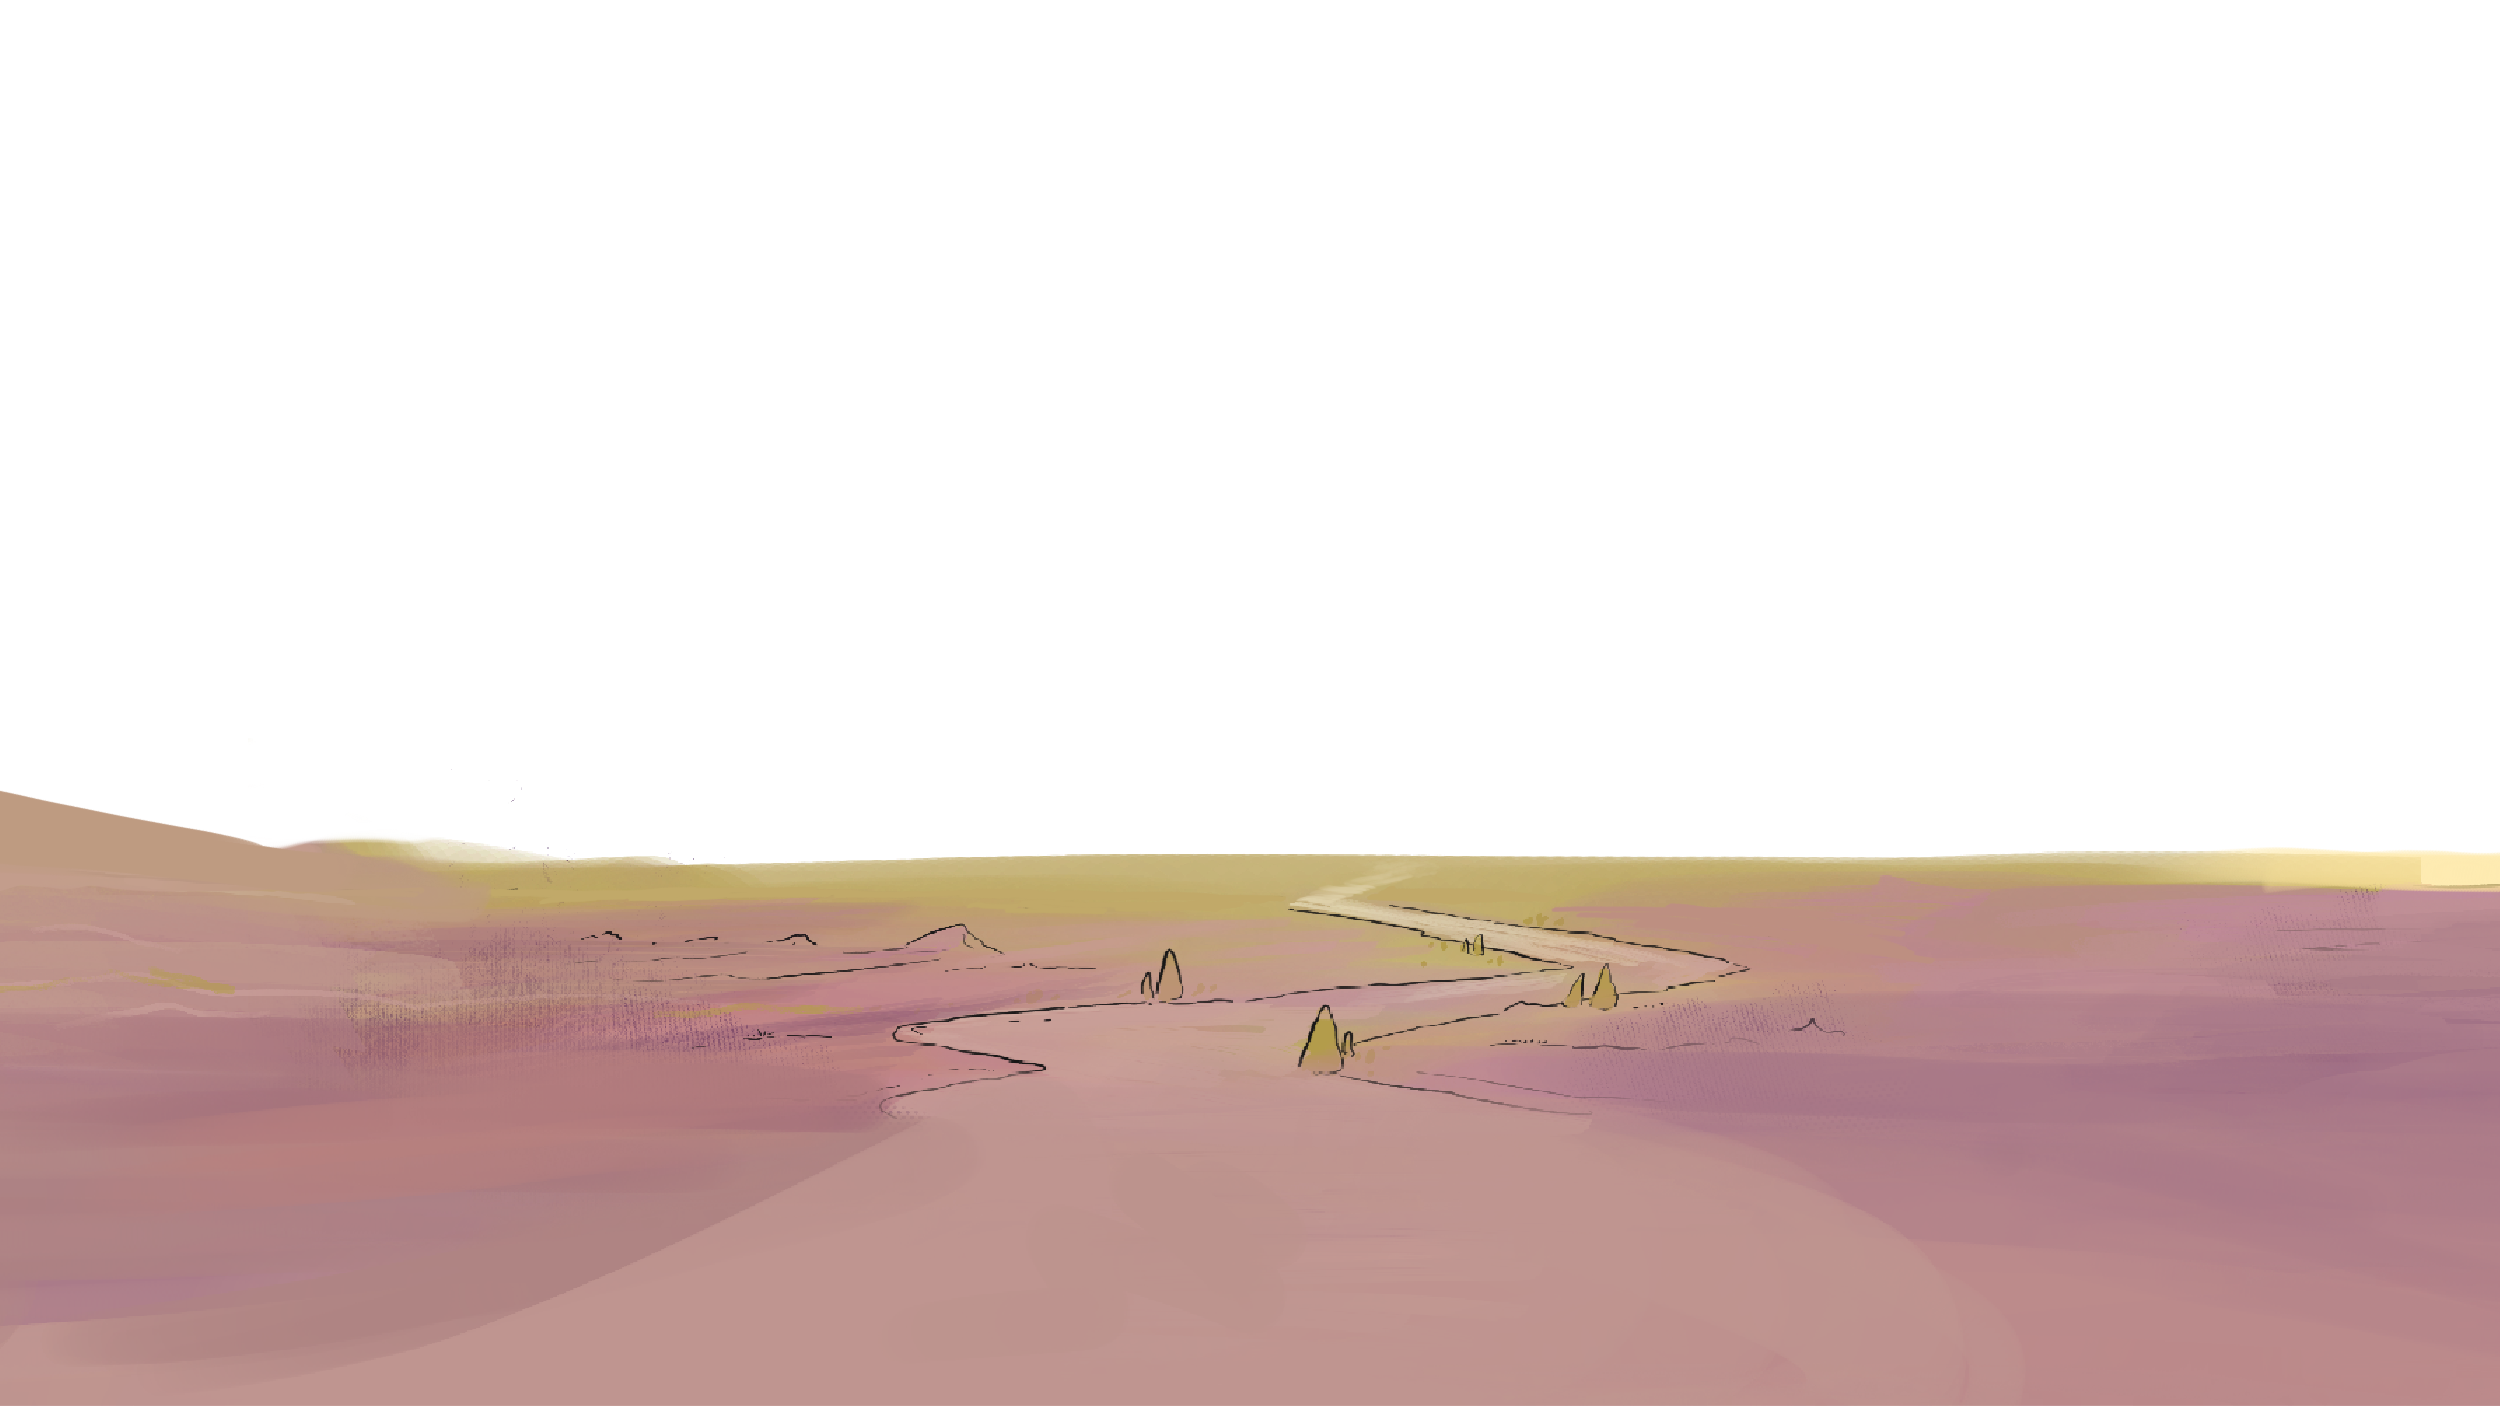
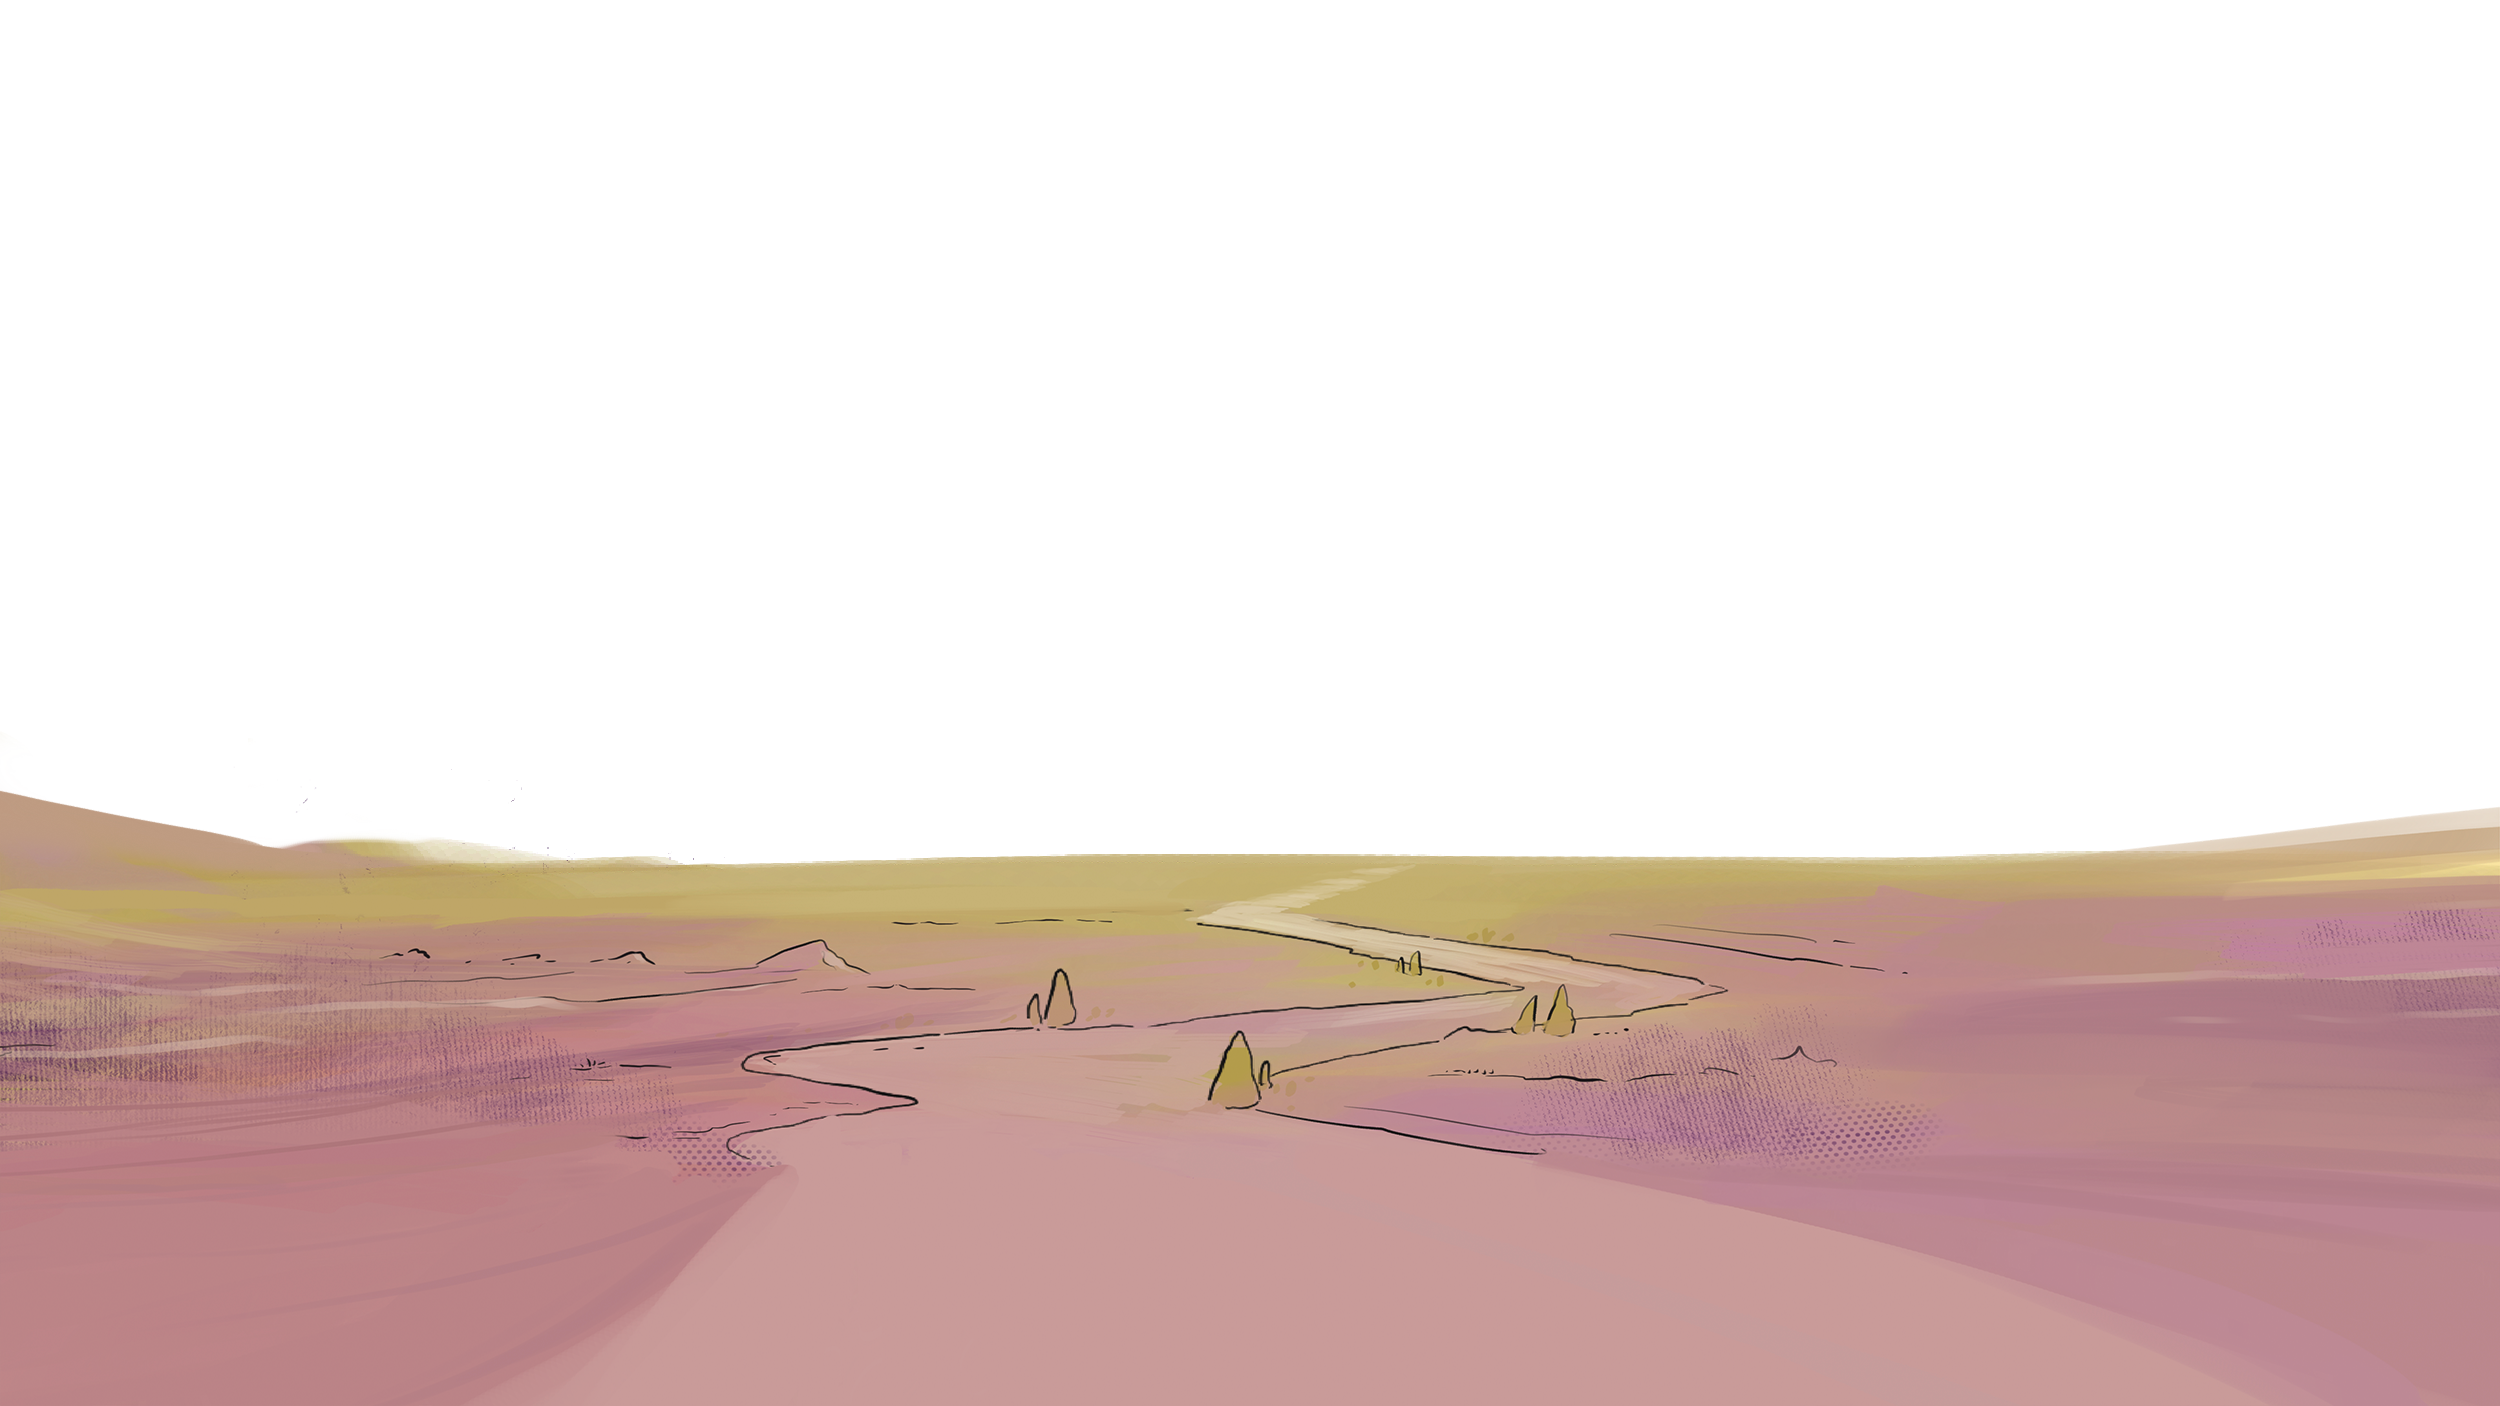
scroll throttle added

Changed region(s): [[0.0, 0.6117, 0.7488, 0.8563], [0.8424, 0.5505, 1.0, 0.6422]]

diff --git a/index.html b/index.html
@@ -13,7 +13,7 @@
 </head>
 
 <body>
-  <label id="sc-val" style="background: #fff; opacity: 0;">0</label>
+  <label id="sc-val" style="background: #fff; opacity: 1;">0</label>
   <div class="loading-view">
     <!-- <p>Loading...</p> -->
     <img src="assets/images/loading.jpg" alt="">
@@ -273,7 +273,7 @@
       <img src="assets/images/frame-03/10_buildings.png" id="f3_10_buildings">
       <img src="assets/images/frame-03/11_buildings.png" id="f3_11_buildings">
       <img src="assets/images/frame-03/12_front.png" id="f3_12_front">
-      <img src="assets/images/frame-03/13_flashes.png" id="f3_13_flashes" style="mix-blend-mode: color-dodge;">
+      <img src="assets/images/frame-03/13_flashes.png" id="f3_13_flashes" style="mix-blend-mode: plus-lighter;">
 
     </section>
 
@@ -372,17 +372,18 @@
     </section>
 
     <section id="frame-07" class="hide">
-      <img src="assets/images/frame-07/Untitled_Artwork 4.png">
+      <img src="assets/images/frame-07/sky.jpg" id="f7_Untitled_Artwork_5">
+      <img src="assets/images/frame-07/Untitled_Artwork 4.png" id="f7_Untitled_Artwork_4">
       <img src="assets/images/frame-07/Untitled_Artwork 3.png" class="f7_fa_dodge">
       <div class="f7_text_content">
 
         <img src="assets/images/frame-07/Untitled_Artwork 2.png" class="f7_bg_paper">
         <div class="f7_paper_text">
-          <h2>Arkadia</h2>
-          <p>Solid GameFi leverage products built by a passionate and experienced in-house team of
-            more than 30 blockchain
-            devs, crypto visionaries, financial analysts, designers, and game developers on the Blockchain.
+          <h2>THE SACRIFICE</h2>
+          <p>The story of a new reincarnation is confirmed as the Arkadians are
+            preparing a summoning ritual..
           </p>
+          <button class="btn-img-md" id="btn_ritual"> <img src="assets/images/btn-ritual.svg"> </button>
         </div>
 
       </div>
@@ -393,10 +394,11 @@
     <ul>
       <li>
         <ul>
-          <li><a href="" class="btn-link" href=""> <img src="assets/images/twitter.svg" alt=""></a></li>
-          <li><a href="" class="btn-link" href=""> <img src="assets/images/Group 61.svg" alt=""></a></li>
-          <li><a href="" class="btn-link" href=""> <img src="assets/images/Group 60.svg" alt=""></a></li>
-          <li><a href="" class="btn-link" href=""> <img src="assets/images/Group 50.svg" alt=""></a></li>
+          <li><a href="" class="btn-link" href=""> <img src="assets/images/sm-1.svg" alt=""></a></li>
+          <li><a href="" class="btn-link" href=""> <img src="assets/images/sm-2.svg" alt=""></a></li>
+          <li><a href="" class="btn-link" href=""> <img src="assets/images/sm-3.svg" alt=""></a></li>
+          <li><a href="" class="btn-link" href=""> <img src="assets/images/sm-4.svg" alt=""></a></li>
+
         </ul>
       </li>
       <li> <a href="" class="btn-link lg-hide sm-show "><img src="assets/images/whitePaper.svg" alt=""></a></li>

diff --git a/assets/js/main.js b/assets/js/main.js
@@ -160,6 +160,8 @@ let f6_r1_mobile = document.getElementById('f6_r1_mobile')
 //frame 07 -----------------------------
 let frame07 = document.getElementById('frame-07')
 
+let ritual_desc = document.querySelector('.f7_text_content')
+
 
 
 // frame resets
@@ -222,16 +224,26 @@ const fr_07 = document.querySelector('.fr-07')
 fr_07.style.height = `calc(${frameSwap_7}px - ${frameSwap_6}px)`
 
 
+const throttle = (fn, delay) => {
+  let last = 0;
+  return (...args) => {
+    const now = new Date().getTime();
+    if (now - last < delay) {
+      return;
+    }
+    last = now;
+    return fn(...args)
+  }
+}
+
+
 //section fade in animations
 let scroll_y;
-window.addEventListener('scroll', () => {
+window.addEventListener('scroll', throttle(() => {
   scroll_y = window.scrollY;
   // console.log(scroll_y);
   // prgBar.style.height = `calc(100% - (${scroll_y} / ${bodyHeight} * 100%))`
   prgBar.style.height = `calc(${scroll_y} / (${bodyHeight} - ${windowHeight} ) * 100%)`
-
-
-
 
   if (scroll_y < frameSwap_1) {
     li_ph_2.style.height = '0%';
@@ -417,7 +429,7 @@ window.addEventListener('scroll', () => {
   // frame 02 animation
   if (frame_02 && scroll_y > frameSwap_1 + 150) {
     scroll_y = scroll_y - frameSwap_1;
-    let speedFactor = 0
+    let speedFactor = 0;
     f2_front_tower.style.transform = `scale(${1 + scroll_y * 0.0008000 - speedFactor})`;
     f2_front_lights.style.transform = `scale(${1 + scroll_y * 0.0004500 - speedFactor})`;
     f2_entrance_right.style.transform = `scale(${1 + scroll_y * 0.0003500 - speedFactor})`;
@@ -471,7 +483,7 @@ window.addEventListener('scroll', () => {
     f4_Untitled_Artwork_1.style.transform = `scale(${1 + scroll_y * 0.00006000 - speedFactor})`;
 
   }
-  if (frame_05 && scroll_y > frameSwap_4) {
+  if (frame_05 && scroll_y > frameSwap_4 + 150) {
     scroll_y = scroll_y - frameSwap_4;
     let speedFactor = 0
     // f6_r1.pause()
@@ -506,10 +518,12 @@ window.addEventListener('scroll', () => {
     frame06.classList.add('f6-anim-fadeIn')
     f6_Untitled_Artwork_4.style.transform = ' translate(0, -100%)'
   }
-  if (frame_07 && scroll_y > frameSwap_6) {
+  if (frame_07 && scroll_y > frameSwap_6 + 150) {
+    scroll_y = scroll_y - frameSwap_6;
+    ritual_desc.style.top = `calc(50% - ${scroll_y * 0.00016000})`;
     // f6_r1.pause()
   }
 
 
-})
+}, 5));
 

diff --git a/assets/css/main.css b/assets/css/main.css
@@ -96,6 +96,26 @@ header .join-links img {
   width: 100%;
 }
 
+button {
+  -webkit-transition: all 0.2s ease;
+  transition: all 0.2s ease;
+  cursor: pointer;
+}
+
+button:hover {
+  scale: 0.98;
+}
+
+button img {
+  width: 100%;
+  position: relative !important;
+}
+
+.btn-img-md {
+  background: transparent;
+  border: none;
+}
+
 .btn-link {
   display: block;
   -webkit-transition: all 0.2s ease;
@@ -292,13 +312,6 @@ header .join-links img {
   text-decoration: none;
 }
 
-button {
-  -webkit-transition: -webkit-filter 0.3s ease;
-  transition: -webkit-filter 0.3s ease;
-  transition: filter 0.3s ease;
-  transition: filter 0.3s ease, -webkit-filter 0.3s ease;
-}
-
 .nav-menu.slide-in .menu-bg {
   position: absolute;
   width: 100vw;
@@ -414,6 +427,10 @@ section {
   line-height: 1.5;
   margin-top: 20px;
   font-weight: 400;
+}
+
+.f7_text_content .f7_paper_text button {
+  margin-top: 30px;
 }
 
 .f2-text-layer {
@@ -620,7 +637,6 @@ section img {
   content: '';
   width: 18px;
   height: 18px;
-  border: 2px solid #fff;
   -webkit-transform: translate(-6px, -6px);
           transform: translate(-6px, -6px);
   opacity: 0.3;
@@ -775,25 +791,25 @@ section img {
 
 @-webkit-keyframes pulse {
   0% {
-    opacity: 1;
+    opacity: 0.2;
   }
   40% {
-    opacity: 0.4;
+    opacity: 0.1;
   }
   100% {
-    opacity: 1;
+    opacity: 0.2;
   }
 }
 
 @keyframes pulse {
   0% {
-    opacity: 1;
+    opacity: 0.2;
   }
   40% {
-    opacity: 0.4;
+    opacity: 0.1;
   }
   100% {
-    opacity: 1;
+    opacity: 0.2;
   }
 }
 
@@ -1003,7 +1019,7 @@ section img {
 }
 
 .f7_fa_dodge {
-  mix-blend-mode: color-dodge;
+  mix-blend-mode: hard-light;
   -webkit-animation: pulse 2.5s infinite alternate ease;
           animation: pulse 2.5s infinite alternate ease;
 }

diff --git a/assets/css/main.scss b/assets/css/main.scss
@@ -82,11 +82,11 @@ header {
     }
   }
 }
-.ak-mobile{
+.ak-mobile {
   display: none !important;
 }
 
-.lg-hide{
+.lg-hide {
   display: none !important;
 }
 
@@ -97,6 +97,20 @@ header {
   img {
     width: 100%;
   }
+}
+
+button {
+  @include btn-link-hover;
+  cursor: pointer;
+  img {
+    width: 100%;
+    position: relative !important;
+  }
+}
+
+.btn-img-md {
+  background: transparent;
+  border: none;
 }
 
 .btn-link {
@@ -239,10 +253,8 @@ header {
   }
 }
 
-button {
-  transition: filter 0.3s ease;
 
-}
+
 
 .nav-menu.slide-in {
   .menu-bg {
@@ -348,6 +360,11 @@ section {
       margin-top: 20px;
       font-weight: 400;
     }
+
+    button {
+      margin-top: 30px;
+    }
+
   }
 
 }
@@ -534,7 +551,7 @@ section img {
             content: '';
             width: 18px;
             height: 18px;
-            border: 2px solid #fff;
+            // border: 2px solid #fff;
             transform: translate(-6px, -6px);
             opacity: 0.3;
             transition: opacity 0.3s ease;
@@ -655,13 +672,13 @@ section img {
 }
 @keyframes pulse {
   0% {
-    opacity: 1;
+    opacity: 0.2;
   }
   40% {
-    opacity: 0.4;
+    opacity: 0.1;
   }
   100% {
-    opacity: 1;
+    opacity: 0.2;
   }
 }
 
@@ -782,7 +799,7 @@ section img {
 
 
 .f7_fa_dodge {
-  mix-blend-mode: color-dodge;
+  mix-blend-mode: hard-light;
   animation: pulse 2.5s infinite alternate ease;
 }
 

diff --git a/assets/js/scrollPlay.js b/assets/js/scrollPlay.js
@@ -87,3 +87,10 @@ coaster_guide.addEventListener('click', playVideo)
 
 // })
 
+
+const f7_base_ritual = document.getElementById('f7_Untitled_Artwork_4')
+const btn_ritual = document.getElementById('btn_ritual')
+
+btn_ritual.addEventListener('click', () => {
+  f7_base_ritual.classList.toggle('f7-ritual-started')
+})

diff --git a/assets/css/frames.css b/assets/css/frames.css
@@ -209,4 +209,14 @@
   -webkit-transition: width 0.3s ease;
   transition: width 0.3s ease;
 }
+
+#f7_Untitled_Artwork_4 {
+  opacity: 1;
+  -webkit-transition: opacity 5s ease;
+  transition: opacity 5s ease;
+}
+
+.f7-ritual-started {
+  opacity: 0 !important;
+}
 /*# sourceMappingURL=frames.css.map */

diff --git a/assets/css/frames.scss b/assets/css/frames.scss
@@ -158,3 +158,12 @@
     transition: width 0.3s ease;
   }
 }
+
+#f7_Untitled_Artwork_4 {
+  opacity: 1;
+  transition: opacity 5s ease;
+}
+
+.f7-ritual-started {
+  opacity: 0 !important;
+}
